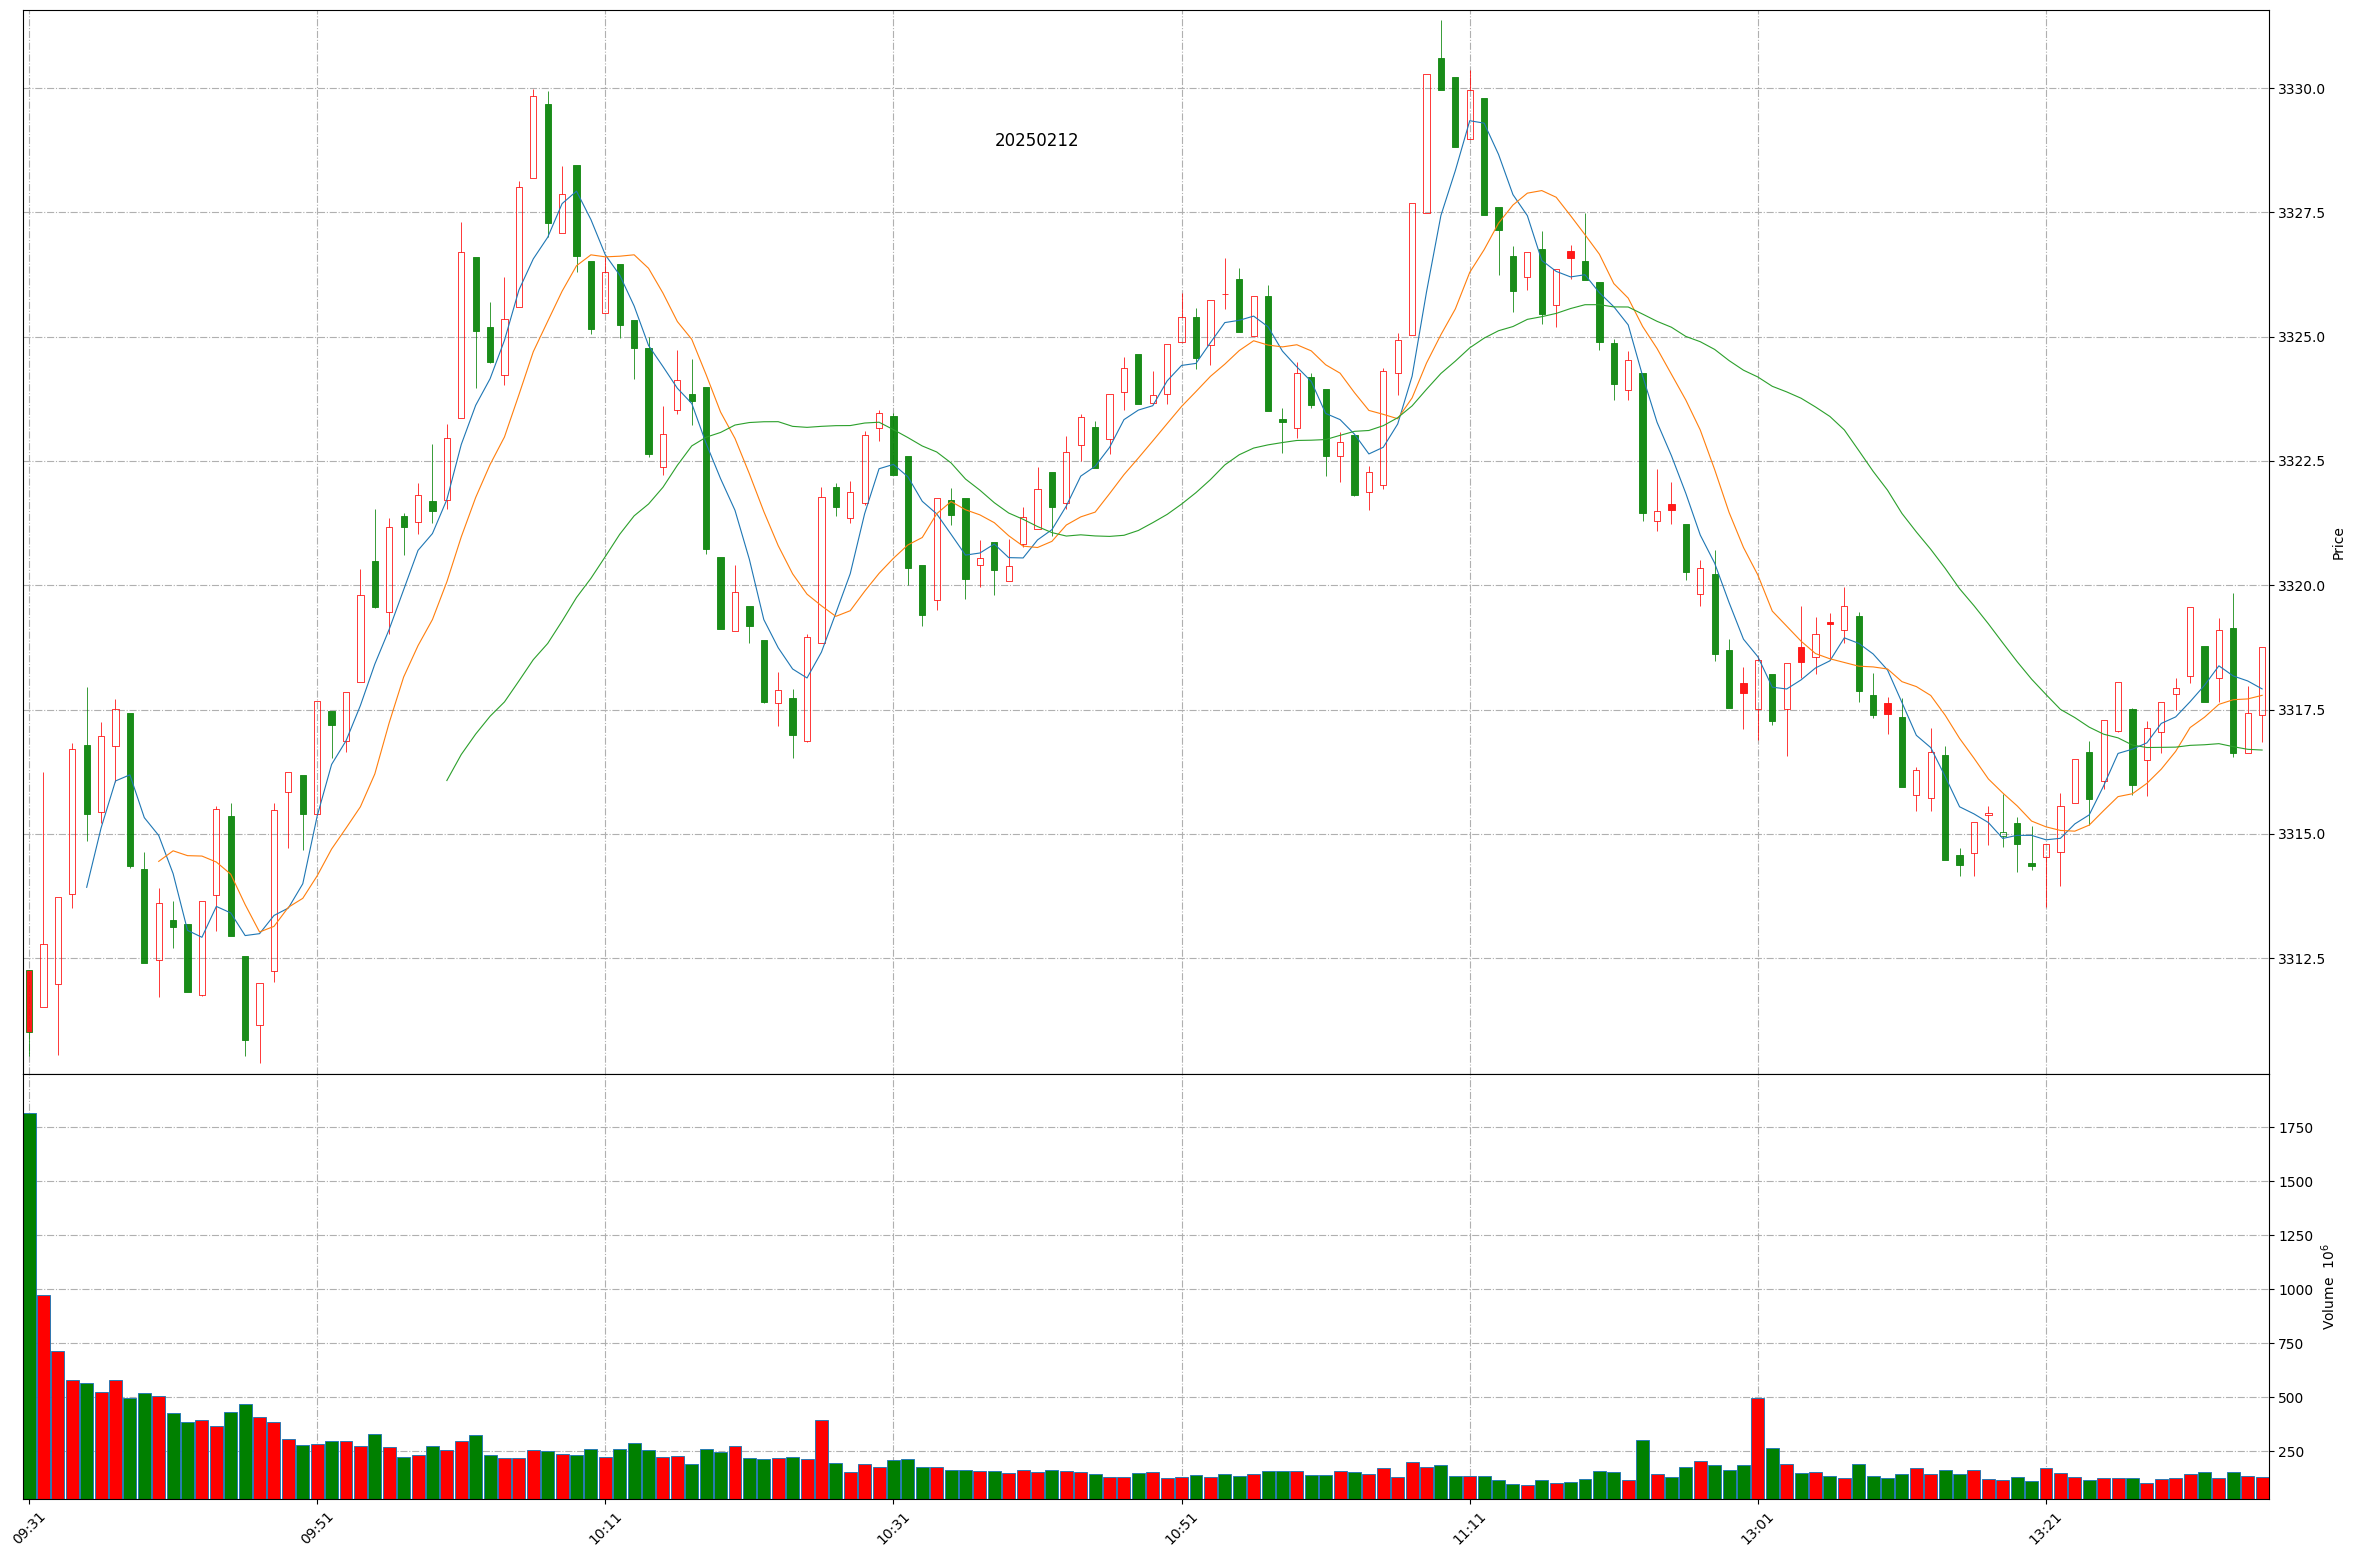
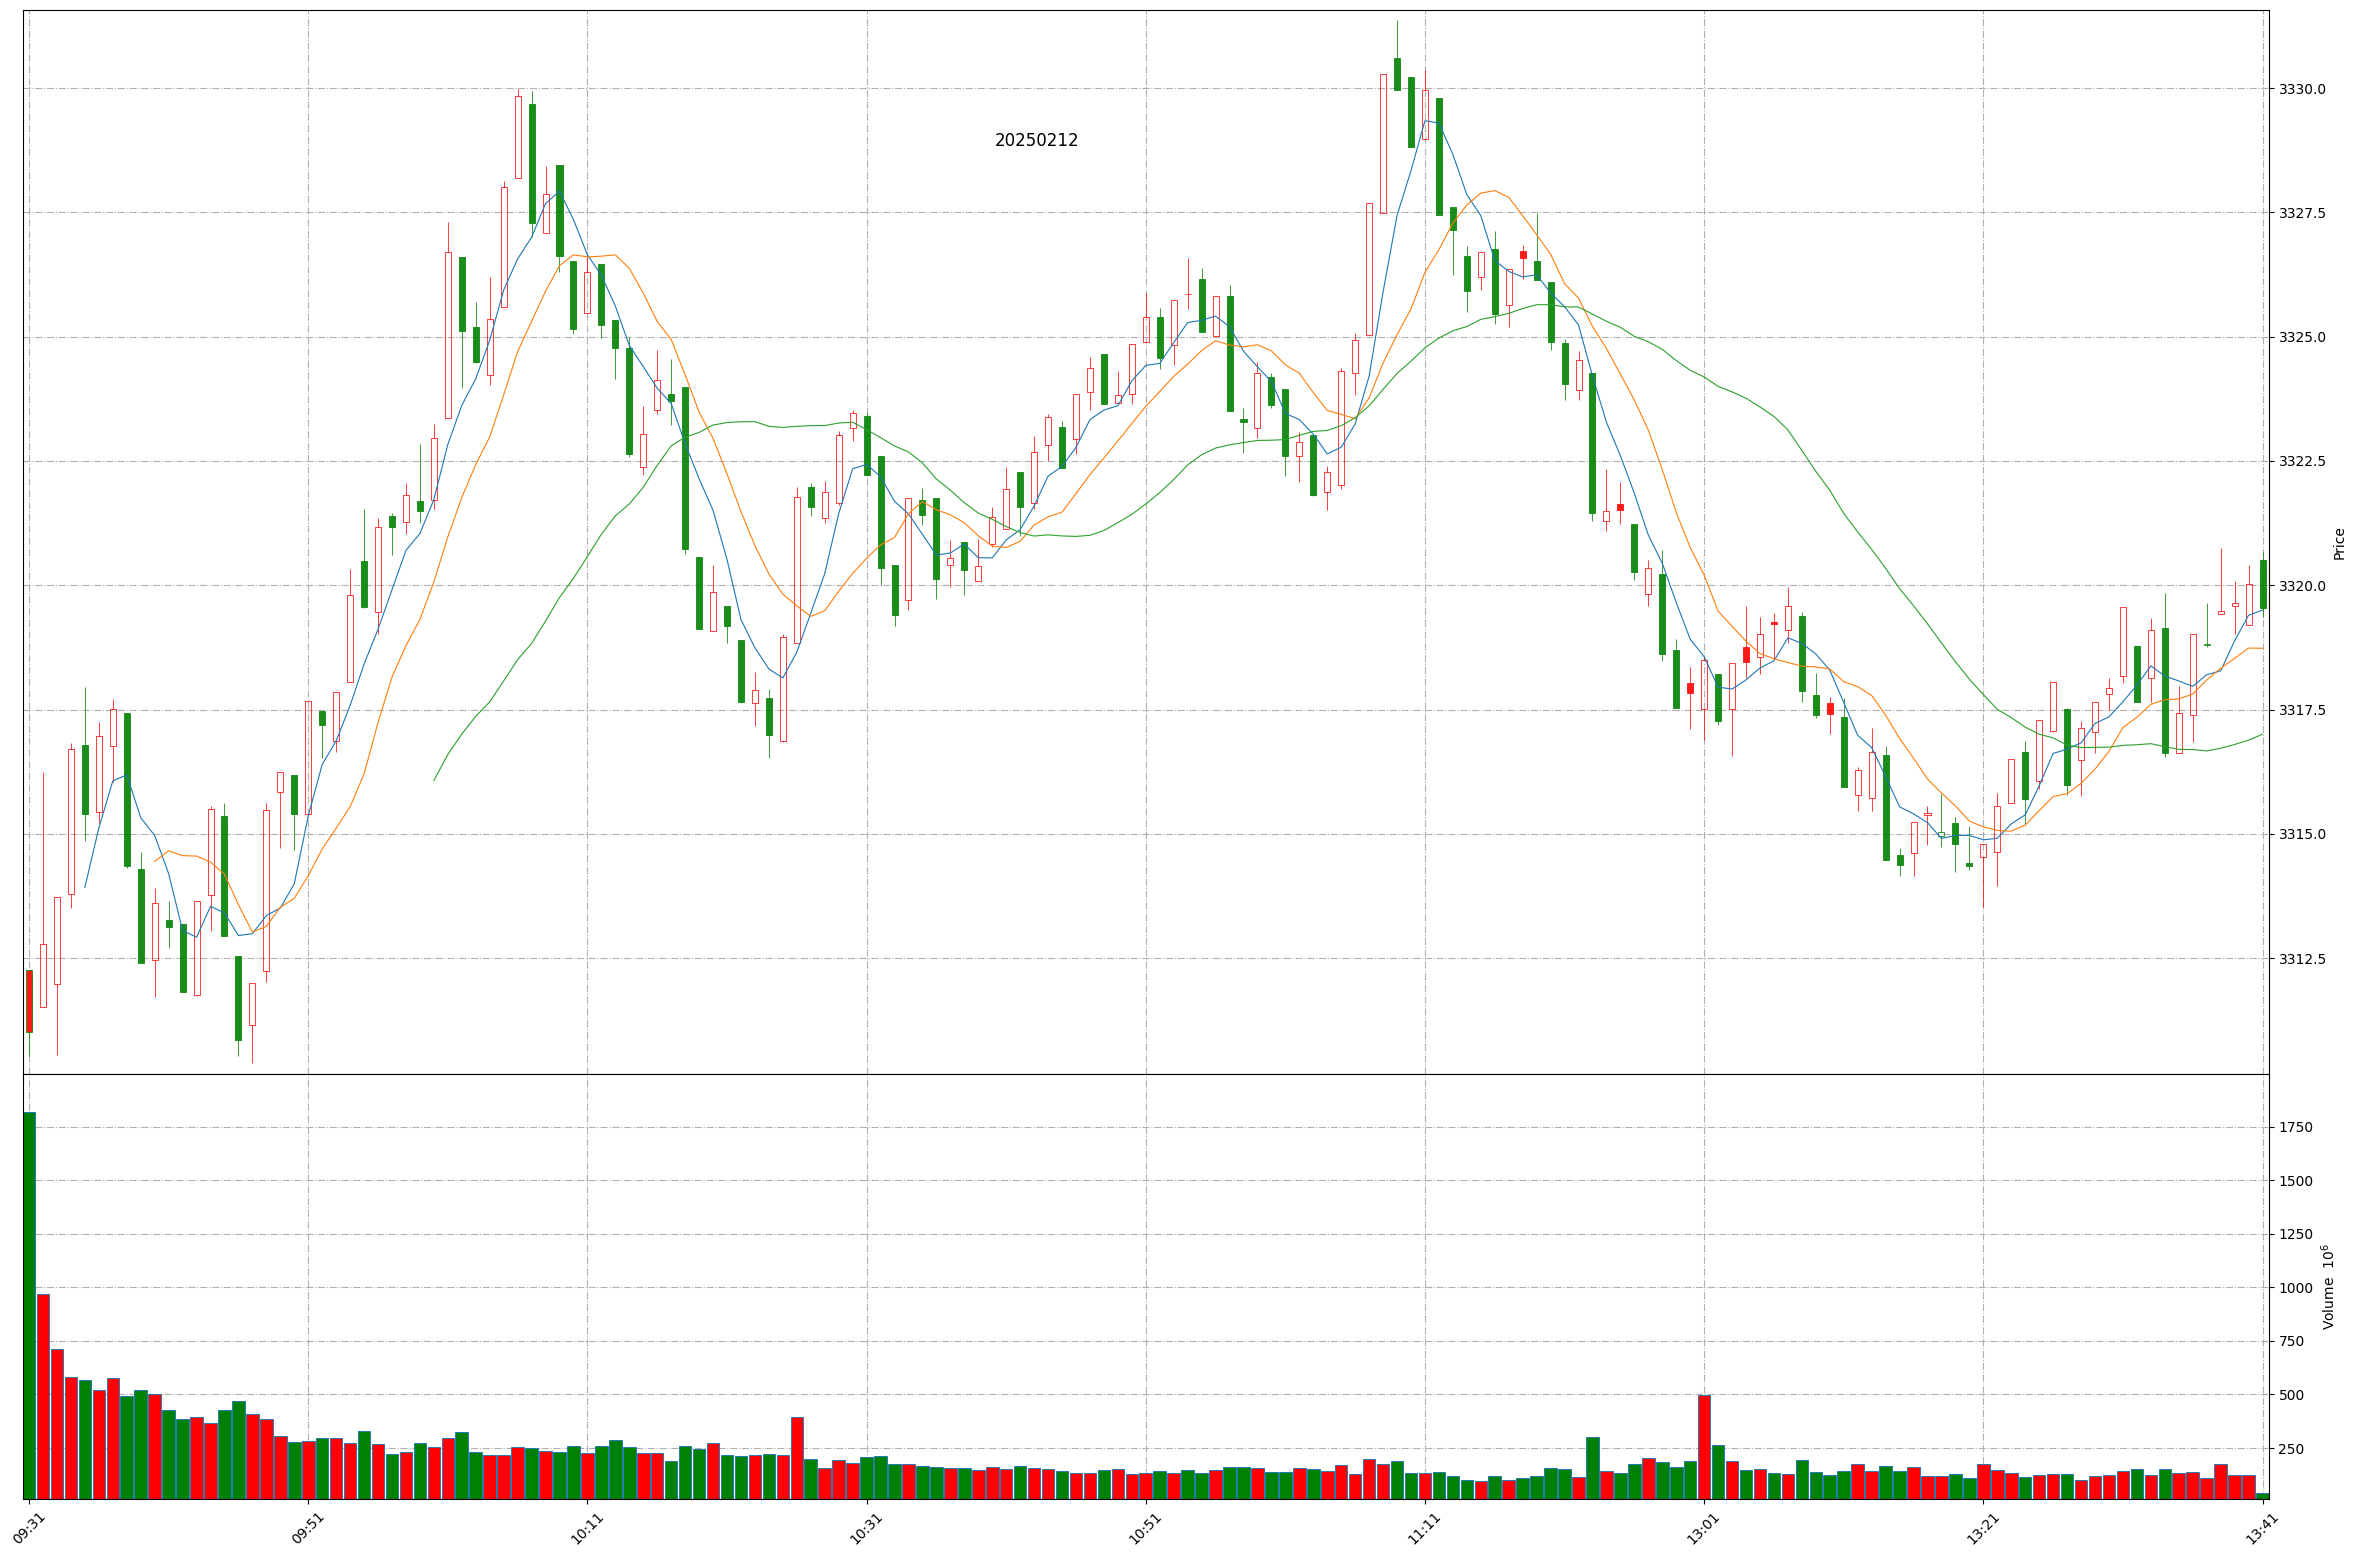
Github action update at 2025-02-12 13:40:38.

diff --git a/README.md b/README.md
@@ -1,11 +1,11 @@
 
 # Daily-A-share-market-quotes 每日 A 股指数（5min 更新）- 20250212
 
-### 上证指数 20250212 13:36
+### 上证指数 20250212 13:40
 ![](./fig/2025/2/20250212-sh000001.png)
 
-### 深证成指 20250212 13:36
+### 深证成指 20250212 13:40
 ![](./fig/2025/2/20250212-sz399001.png)
 
-### 北证50 20250212 13:36
+### 北证50 20250212 13:40
 ![](./fig/2025/2/20250212-bj899050.png)
